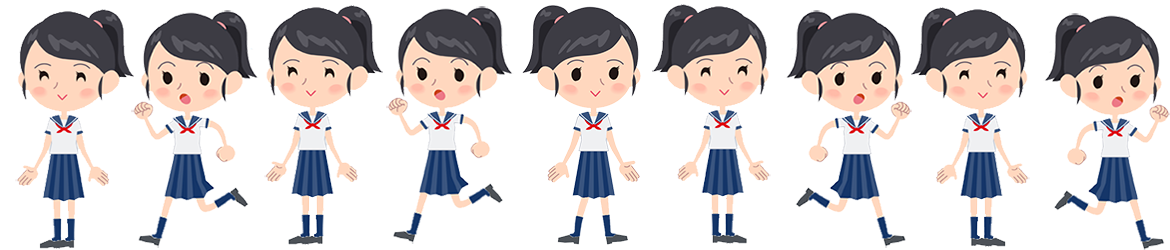
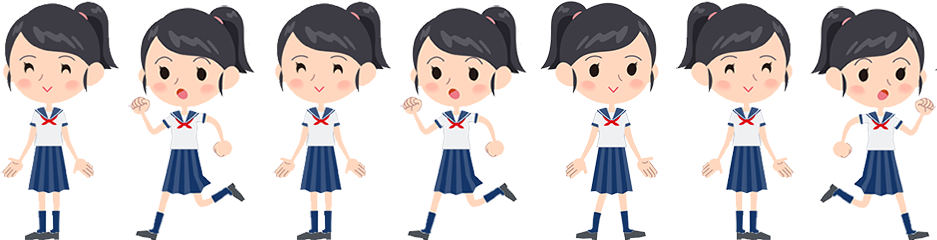
update sprite

diff --git a/iteration3/game3/js/Baselevel.js b/iteration3/game3/js/Baselevel.js
@@ -30,7 +30,7 @@ var Baselevel = new Phaser.Class({
     this.load.image('platform_short', 'assets/common/platform_short.png');
     this.load.spritesheet('girl',
       'assets/common/girl.png',
-      { frameWidth: 135, frameHeight: 250 }
+      { frameWidth: 130, frameHeight: 240 }
     );
   },
 
